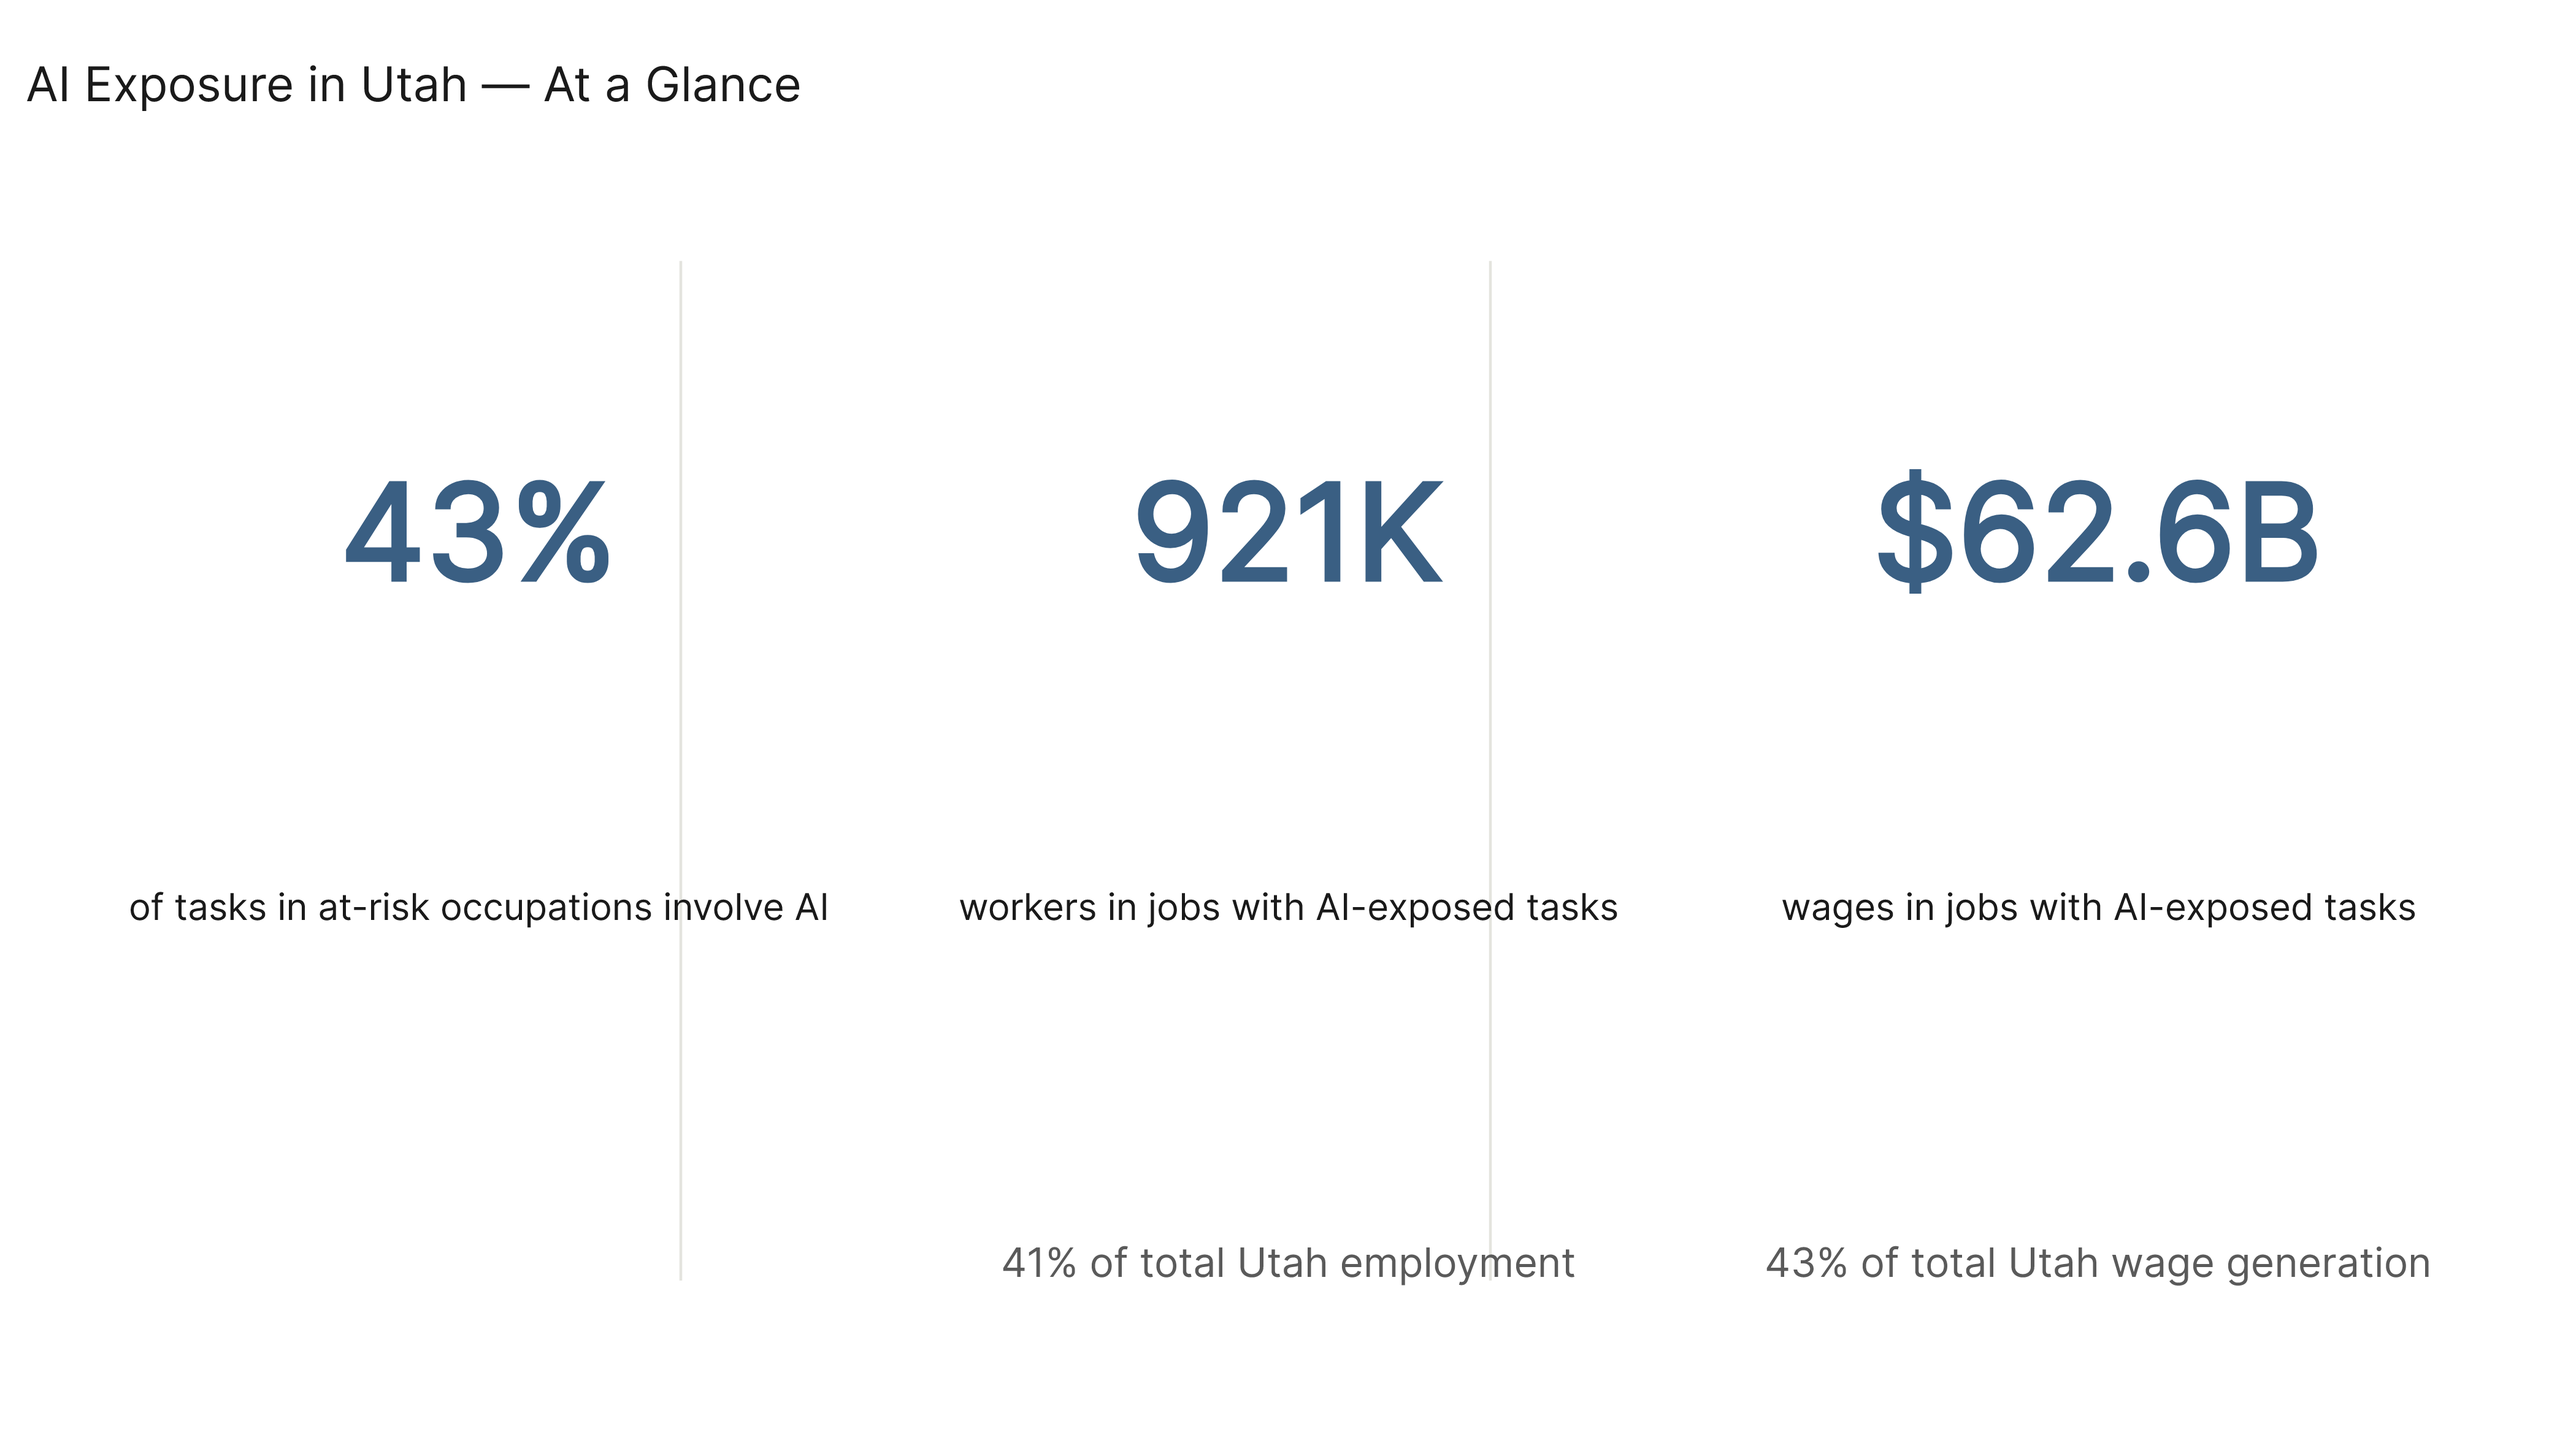
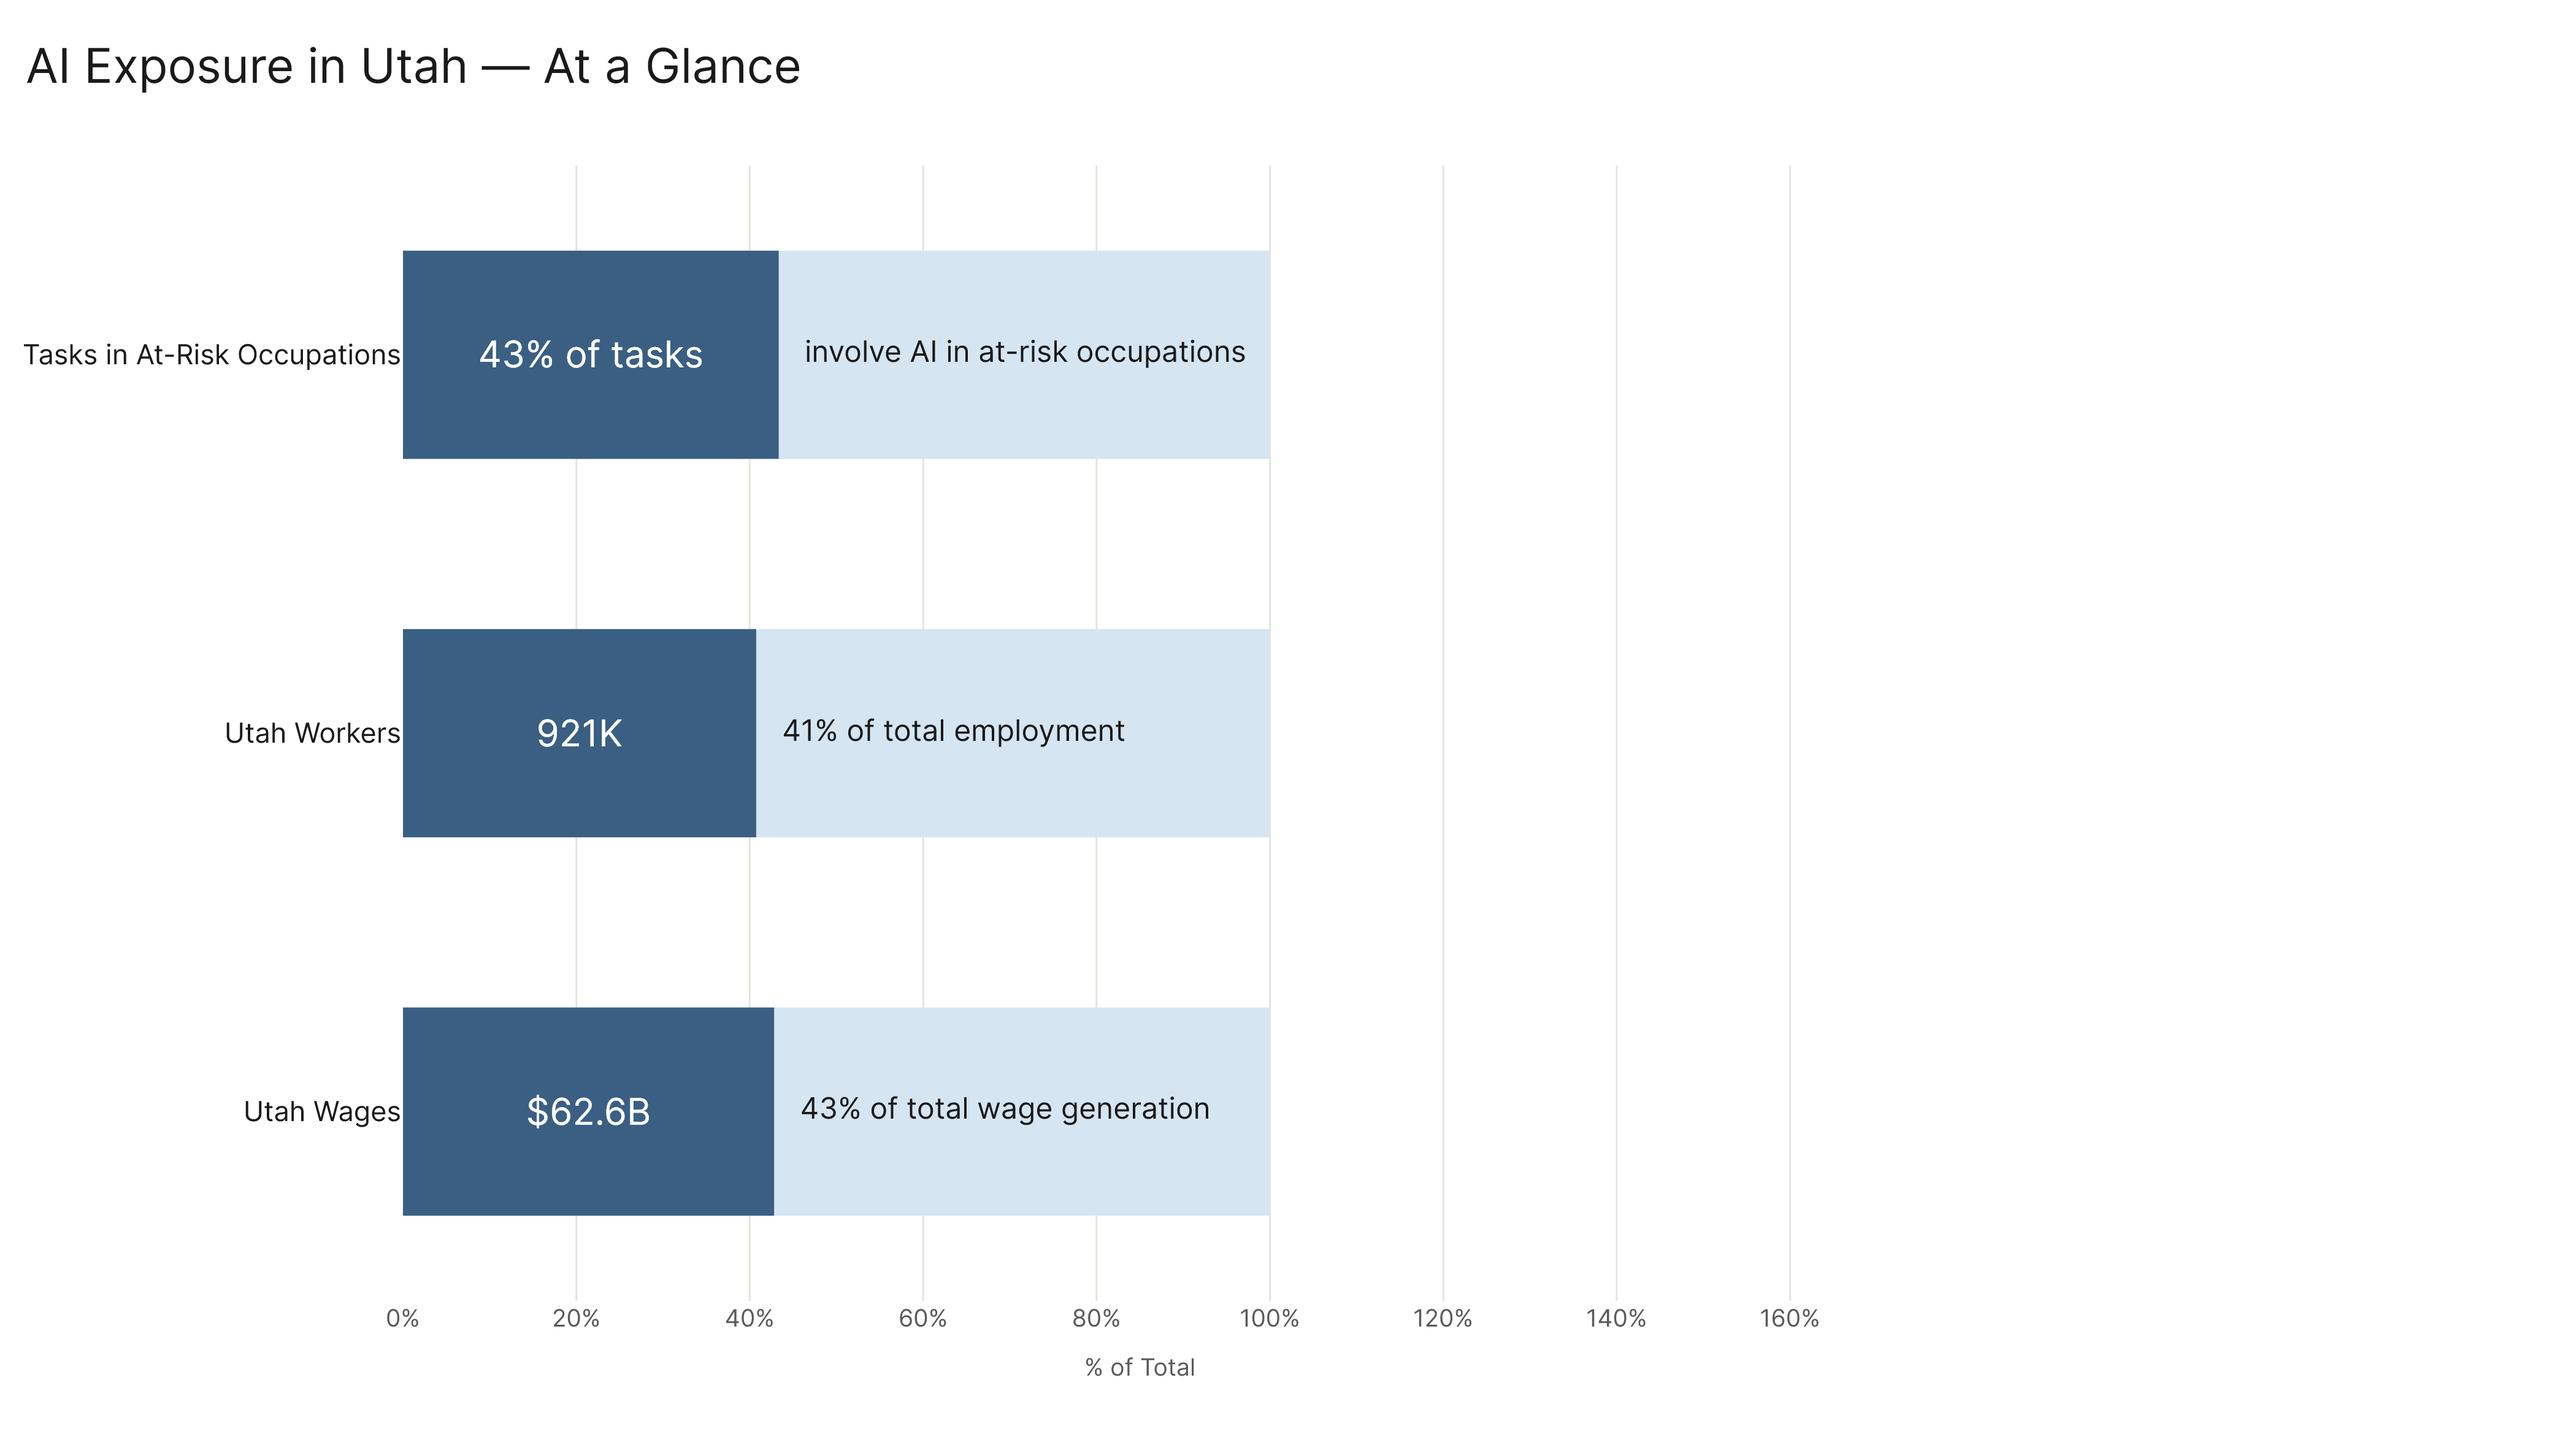
workforce_meeting_v2: redesign headline chart as horizontal bar with background total bar
- Colored bar shows affected share (white text inside: raw value)
- Light background bar extends to 100% showing the full total
- Dark text to the right: % of total employment / wage generation
- Tasks row: "43% of tasks" inside bar, "involve AI in at-risk occupations" outside

diff --git a/analysis/questions/workforce_meeting_v2/run.py b/analysis/questions/workforce_meeting_v2/run.py
@@ -332,96 +332,117 @@ def _chart_00_headline(
     total_workers: float,
     total_wages: float,
 ) -> go.Figure:
-    """Three big metric tiles: % tasks affected, workers affected, wages affected.
+    """Three horizontal bars: tasks %, workers, wages.
 
-    Workers and wages are shown with their absolute value and as a % of total
-    Utah employment / total Utah wage generation.
+    Each bar is drawn against a background bar representing 100% of the total.
+    Primary value (raw number) in white inside the colored bar.
+    % of total in dark text to the right.
     """
-    # Aggregate across all sectors from confirmed dataset
     workers_aff = float(major_df["workers_affected"].sum())
     wages_aff   = float(major_df["wages_affected"].sum())
 
-    # pct_tasks_affected is ratio-of-totals — pull from any single-sector agg
-    # by recomputing: workers_affected / total_workers (approx scope)
-    # Better: use weighted avg from the df itself (workers-weighted pct_tasks)
-    pct_tasks = float(
+    pct_tasks   = float(
         (major_df["pct_tasks_affected"] * major_df["workers_affected"]).sum()
         / major_df["workers_affected"].sum()
     )
-
     pct_workers = workers_aff / total_workers * 100.0 if total_workers else 0.0
     pct_wages   = wages_aff   / total_wages   * 100.0 if total_wages   else 0.0
 
-    # ── Layout: three equal columns, one metric each ──────────────────────────
-    METRIC_FS  = 72   # giant number
-    LABEL_FS   = 20   # description below number
-    SUBVAL_FS  = 22   # secondary value (% of total)
+    # Categories — displayed top to bottom (autorange="reversed")
+    categories = [
+        "Tasks in At-Risk Occupations",
+        "Utah Workers",
+        "Utah Wages",
+    ]
+    pct_vals = [pct_tasks, pct_workers, pct_wages]
 
-    # x positions for the three columns (paper coords 0–1)
-    xs = [1/6, 3/6, 5/6]
-    labels = ["of tasks in at-risk\noccupations involve AI", "workers in jobs with\nAI-exposed tasks", "wages in jobs with\nAI-exposed tasks"]
-    big_vals = [
-        f"{pct_tasks:.0f}%",
+    # White text inside the colored bar: the raw value
+    inside_vals = [
+        f"{pct_tasks:.0f}% of tasks",
         format_workers(workers_aff),
         format_wages(wages_aff),
     ]
-    sub_vals = [
-        "",
-        f"{pct_workers:.0f}% of total Utah employment",
-        f"{pct_wages:.0f}% of total Utah wage generation",
+
+    # Dark text to the right: what % of the total this represents
+    outside_vals = [
+        "involve AI in at-risk occupations",
+        f"{pct_workers:.0f}% of total employment",
+        f"{pct_wages:.0f}% of total wage generation",
     ]
 
     fig = go.Figure()
 
-    # Invisible scatter to force a plot area (needed for paper-coord annotations)
-    fig.add_trace(go.Scatter(x=[0, 1], y=[0, 1], mode="markers", marker=dict(opacity=0), showlegend=False, hoverinfo="skip"))
+    # Background bar — full width (100%) in light color representing the total
+    fig.add_trace(go.Bar(
+        x=[100, 100, 100],
+        y=categories,
+        orientation="h",
+        marker=dict(color="#d5e5f2", line=dict(width=0)),
+        showlegend=False,
+        hoverinfo="skip",
+        cliponaxis=False,
+    ))
 
-    for i, (x, big, sub, lbl) in enumerate(zip(xs, big_vals, sub_vals, labels)):
-        # Big number
-        fig.add_annotation(
-            x=x, y=0.72, xref="paper", yref="paper",
-            text=f"<b>{big}</b>",
-            showarrow=False,
-            font=dict(size=METRIC_FS, color=COLORS["primary"], family=FONT_FAMILY),
-            xanchor="center", yanchor="middle",
-        )
-        # Description label below number
-        fig.add_annotation(
-            x=x, y=0.42, xref="paper", yref="paper",
-            text=lbl,
-            showarrow=False,
-            font=dict(size=LABEL_FS, color=COLORS["text"], family=FONT_FAMILY),
-            xanchor="center", yanchor="top",
-            align="center",
-        )
-        # Secondary % of total (workers and wages only)
-        if sub:
-            fig.add_annotation(
-                x=x, y=0.12, xref="paper", yref="paper",
-                text=sub,
-                showarrow=False,
-                font=dict(size=SUBVAL_FS, color=COLORS["neutral"], family=FONT_FAMILY),
-                xanchor="center", yanchor="top",
-                align="center",
-            )
+    # Foreground colored bar — the affected share
+    fig.add_trace(go.Bar(
+        x=pct_vals,
+        y=categories,
+        orientation="h",
+        marker=dict(color=BAR_COLOR, line=dict(width=0)),
+        text=inside_vals,
+        textposition="inside",
+        insidetextanchor="middle",
+        textfont=dict(size=INSIDE_FS, color="white", family=FONT_FAMILY),
+        cliponaxis=False,
+        showlegend=False,
+    ))
 
-        # Vertical divider between columns (skip after last)
-        if i < 2:
-            fig.add_shape(
-                type="line",
-                x0=xs[i] + 1/6 * 0.5, x1=xs[i] + 1/6 * 0.5,
-                y0=0.08, y1=0.95,
-                xref="paper", yref="paper",
-                line=dict(color=COLORS["grid"], width=1.5),
-            )
+    # Outside text — % of total in dark color
+    fig.add_trace(go.Scatter(
+        x=[v + 100 * 0.03 for v in pct_vals],
+        y=categories,
+        mode="text",
+        text=outside_vals,
+        textposition="middle right",
+        textfont=dict(size=OUTSIDE_FS, color=COLORS["text"], family=FONT_FAMILY),
+        showlegend=False,
+        hoverinfo="skip",
+    ))
+
+    fig.update_layout(barmode="overlay")
+
+    fig.update_yaxes(
+        autorange="reversed",
+        showgrid=False,
+        showline=False,
+        tickfont=dict(size=YAXIS_FS, color=COLORS["text"], family=FONT_FAMILY),
+    )
 
     _apply_base_style(fig, "AI Exposure in Utah — At a Glance")
 
     fig.update_layout(
-        xaxis=dict(visible=False),
-        yaxis=dict(visible=False),
-        plot_bgcolor="white",
-        margin=dict(l=40, r=40, t=110, b=40),
+        xaxis=dict(
+            showgrid=True,
+            gridcolor=COLORS["grid"],
+            showticklabels=True,
+            tickformat=".0f",
+            ticksuffix="%",
+            showline=False,
+            zeroline=False,
+            range=[0, 170],
+            tickfont=dict(size=TICK_FS, color=COLORS["neutral"], family=FONT_FAMILY),
+            title=dict(
+                text="% of Total",
+                font=dict(size=TICK_FS, color=COLORS["neutral"], family=FONT_FAMILY),
+            ),
+        ),
+        yaxis=dict(
+            showgrid=False,
+            showline=False,
+            tickfont=dict(size=YAXIS_FS, color=COLORS["text"], family=FONT_FAMILY),
+        ),
+        bargap=0.45,
+        margin=dict(l=20, r=380, t=90, b=80),
     )
 
     return fig
